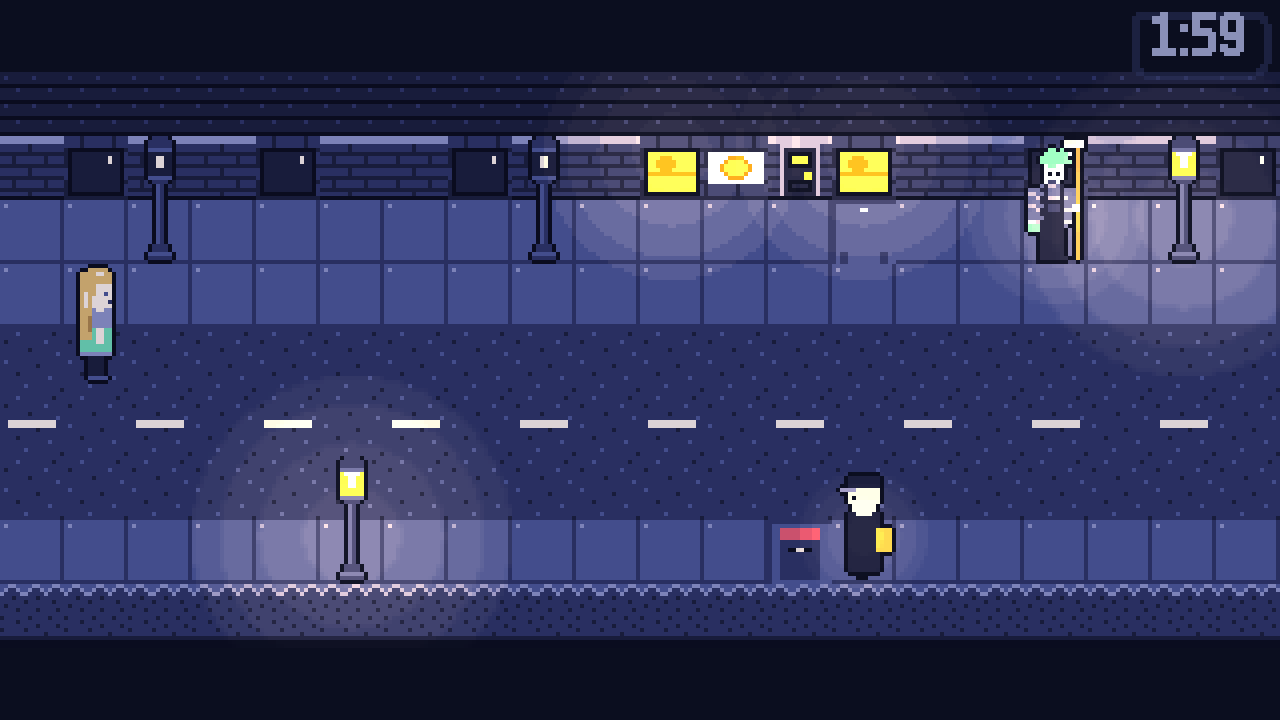
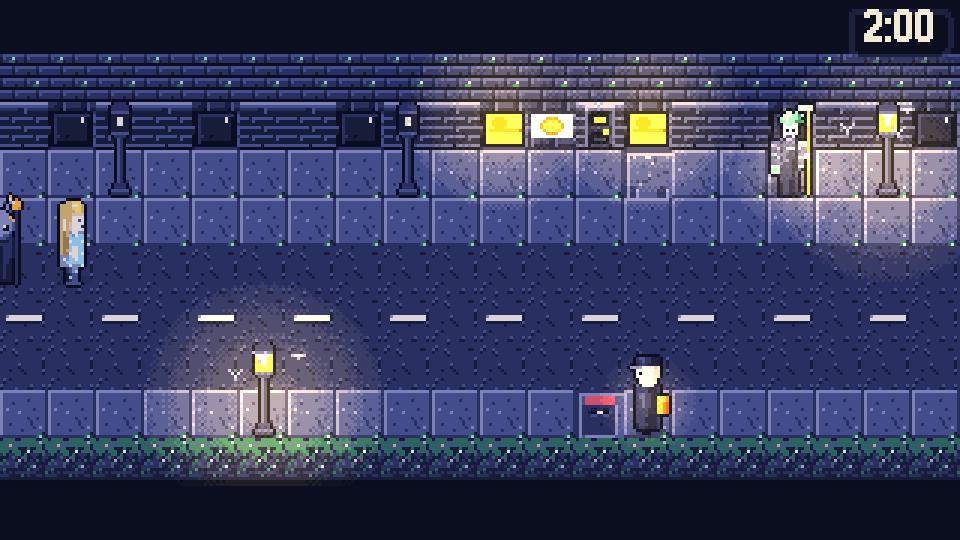
Show the shaded art and current game in the README
The README still showed the flat art from before the shading pass. It
also asked for Godot 4.4, but the project is set to 4.7. It said Wick
gives you more time, but the clock now stops in every fight.

Put the crew art at the top and add new screenshots of the street, the
bedroom, Wick, the square and the Curfew fight. Add a row of character
portraits and a link to the full art page. Correct the Godot version
and say what Wick really does in a fight.

diff --git a/README.md b/README.md
@@ -1,8 +1,10 @@
 # Nightshift
 
-![Tadzio on Main Street at 1:59, with the Window Washer and the Night Postman](docs/street_main.png)
+<p align="center">
+  <img src="docs/art/shirt_crew.png" width="480" alt="The Nightshift crew under the moon, with the words One hour. Every night. Make it count.">
+</p>
 
-Nightshift is a top-down pixel RPG for Godot 4.
+Nightshift is a top-down pixel RPG for Godot 4.7.
 
 Every night from 2:00 to 3:00, the town has a second shift. The workers of the
 Nightshift put the day back together. They relight the lamps, return lost things
@@ -12,6 +14,23 @@ named Tadzio wakes up at 1:59.
 This repo holds a vertical slice: one full night, about 15 minutes of play.
 Tadzio and Bryan design the game. Claude Code builds it from [SPEC.md](SPEC.md).
 
+![Main Street at 2:00, with lamps lit and workers at their posts](docs/street_main.png)
+
+| | |
+|---|---|
+| ![Tadzio in the bedroom at 1:59](docs/screenshots/bedroom.png) | ![Wick meets Tadzio on Maple Street](docs/screenshots/wick.png) |
+| ![The town square under the clock tower](docs/screenshots/square.png) | ![Curfew sends sheep over fences in a fight](docs/screenshots/curfew_fight.png) |
+
+## The art
+
+Every sprite, tile and portrait is pixel art, stored as text in `assets/px/`.
+The rooms have warm lamp light, soft shadows and small bits of motion.
+
+![Portraits of Tadzio, Wick, Curfew, the Un-Baker, the Window Washer, the Puddle Keeper, the Night Postman and the Foreman](docs/screenshots/cast.png)
+
+See [all the art on one page](docs/art/gallery.png). The shirt design and the
+concept art are in [docs/art](docs/art).
+
 ## How it plays
 
 - **Minutes are the currency.** The clock is always on the screen. Doors, lamps
@@ -20,7 +39,7 @@ Tadzio and Bryan design the game. Claude Code builds it from [SPEC.md](SPEC.md).
 - **Every worker is a job.** In a fight, you dodge the attacks. Help the worker
   with the job, and you make a friend. Hustle the worker, and you make an enemy.
 - **Wick is your only friend at first.** Wick is an anxious moth lamplighter.
-  He cannot fight. He can light the arena and give you more time.
+  He cannot fight. He can light the arena, take the first hit or warm you up.
 - **The town forgets.** Only the things that you save at a lamp stay to the
   next night.
 
@@ -28,7 +47,7 @@ Nobody dies. If you lose a fight, you fall asleep.
 
 ## Play it
 
-1. Install Godot 4.4 or newer. On macOS, use `brew install --cask godot`.
+1. Install Godot 4.7 or newer. On macOS, use `brew install --cask godot`.
 2. Open `project.godot` in Godot and push F5. Or, from a shell:
 
    ```sh
